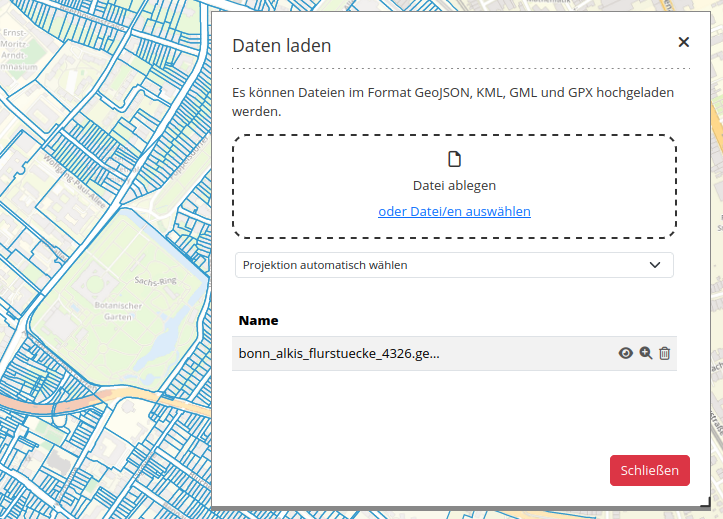
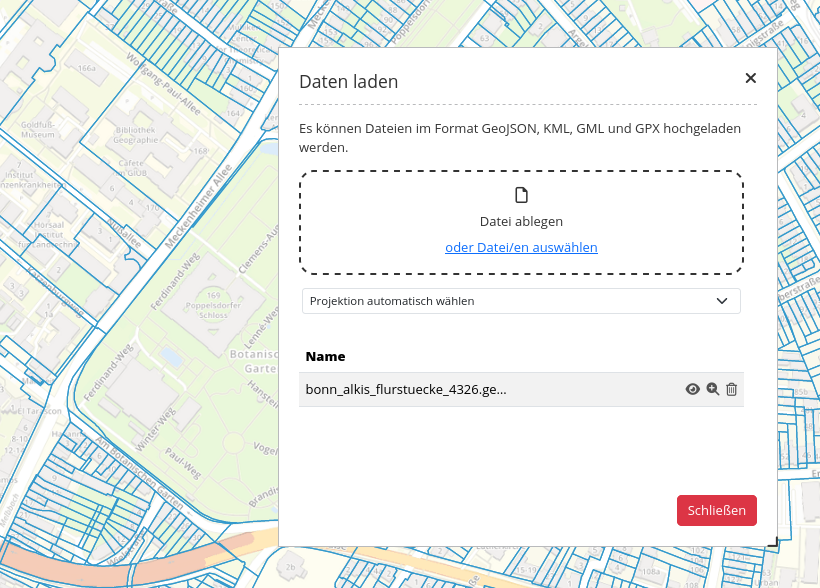
New Screenshots and Scales for Data Upload

diff --git a/de/elements/basic/dataupload.rst b/de/elements/basic/dataupload.rst
@@ -8,7 +8,7 @@ Für eine passende Projektion wählen Sie entweder ein eigenes Koordinatenrefere
 .. hint:: Die Dateigröße ist begrenzt. In der Elementkonfiguration kann eine maximale Größe definiert werden.
 
 .. image:: ../../../figures/dataupload.png
-     :width: 100%
+     :scale: 70
 
 
 Konfiguration

diff --git a/en/elements/basic/dataupload.rst b/en/elements/basic/dataupload.rst
@@ -8,7 +8,7 @@ You can either choose a fitting CRS or use the feature *Determine projection aut
 .. hint:: File size is limited. A maximum file size can be defined in the element configuration.
 
 .. image:: ../../../figures/dataupload.png
-     :width: 100%
+     :scale: 70
 
 
 Configuration
